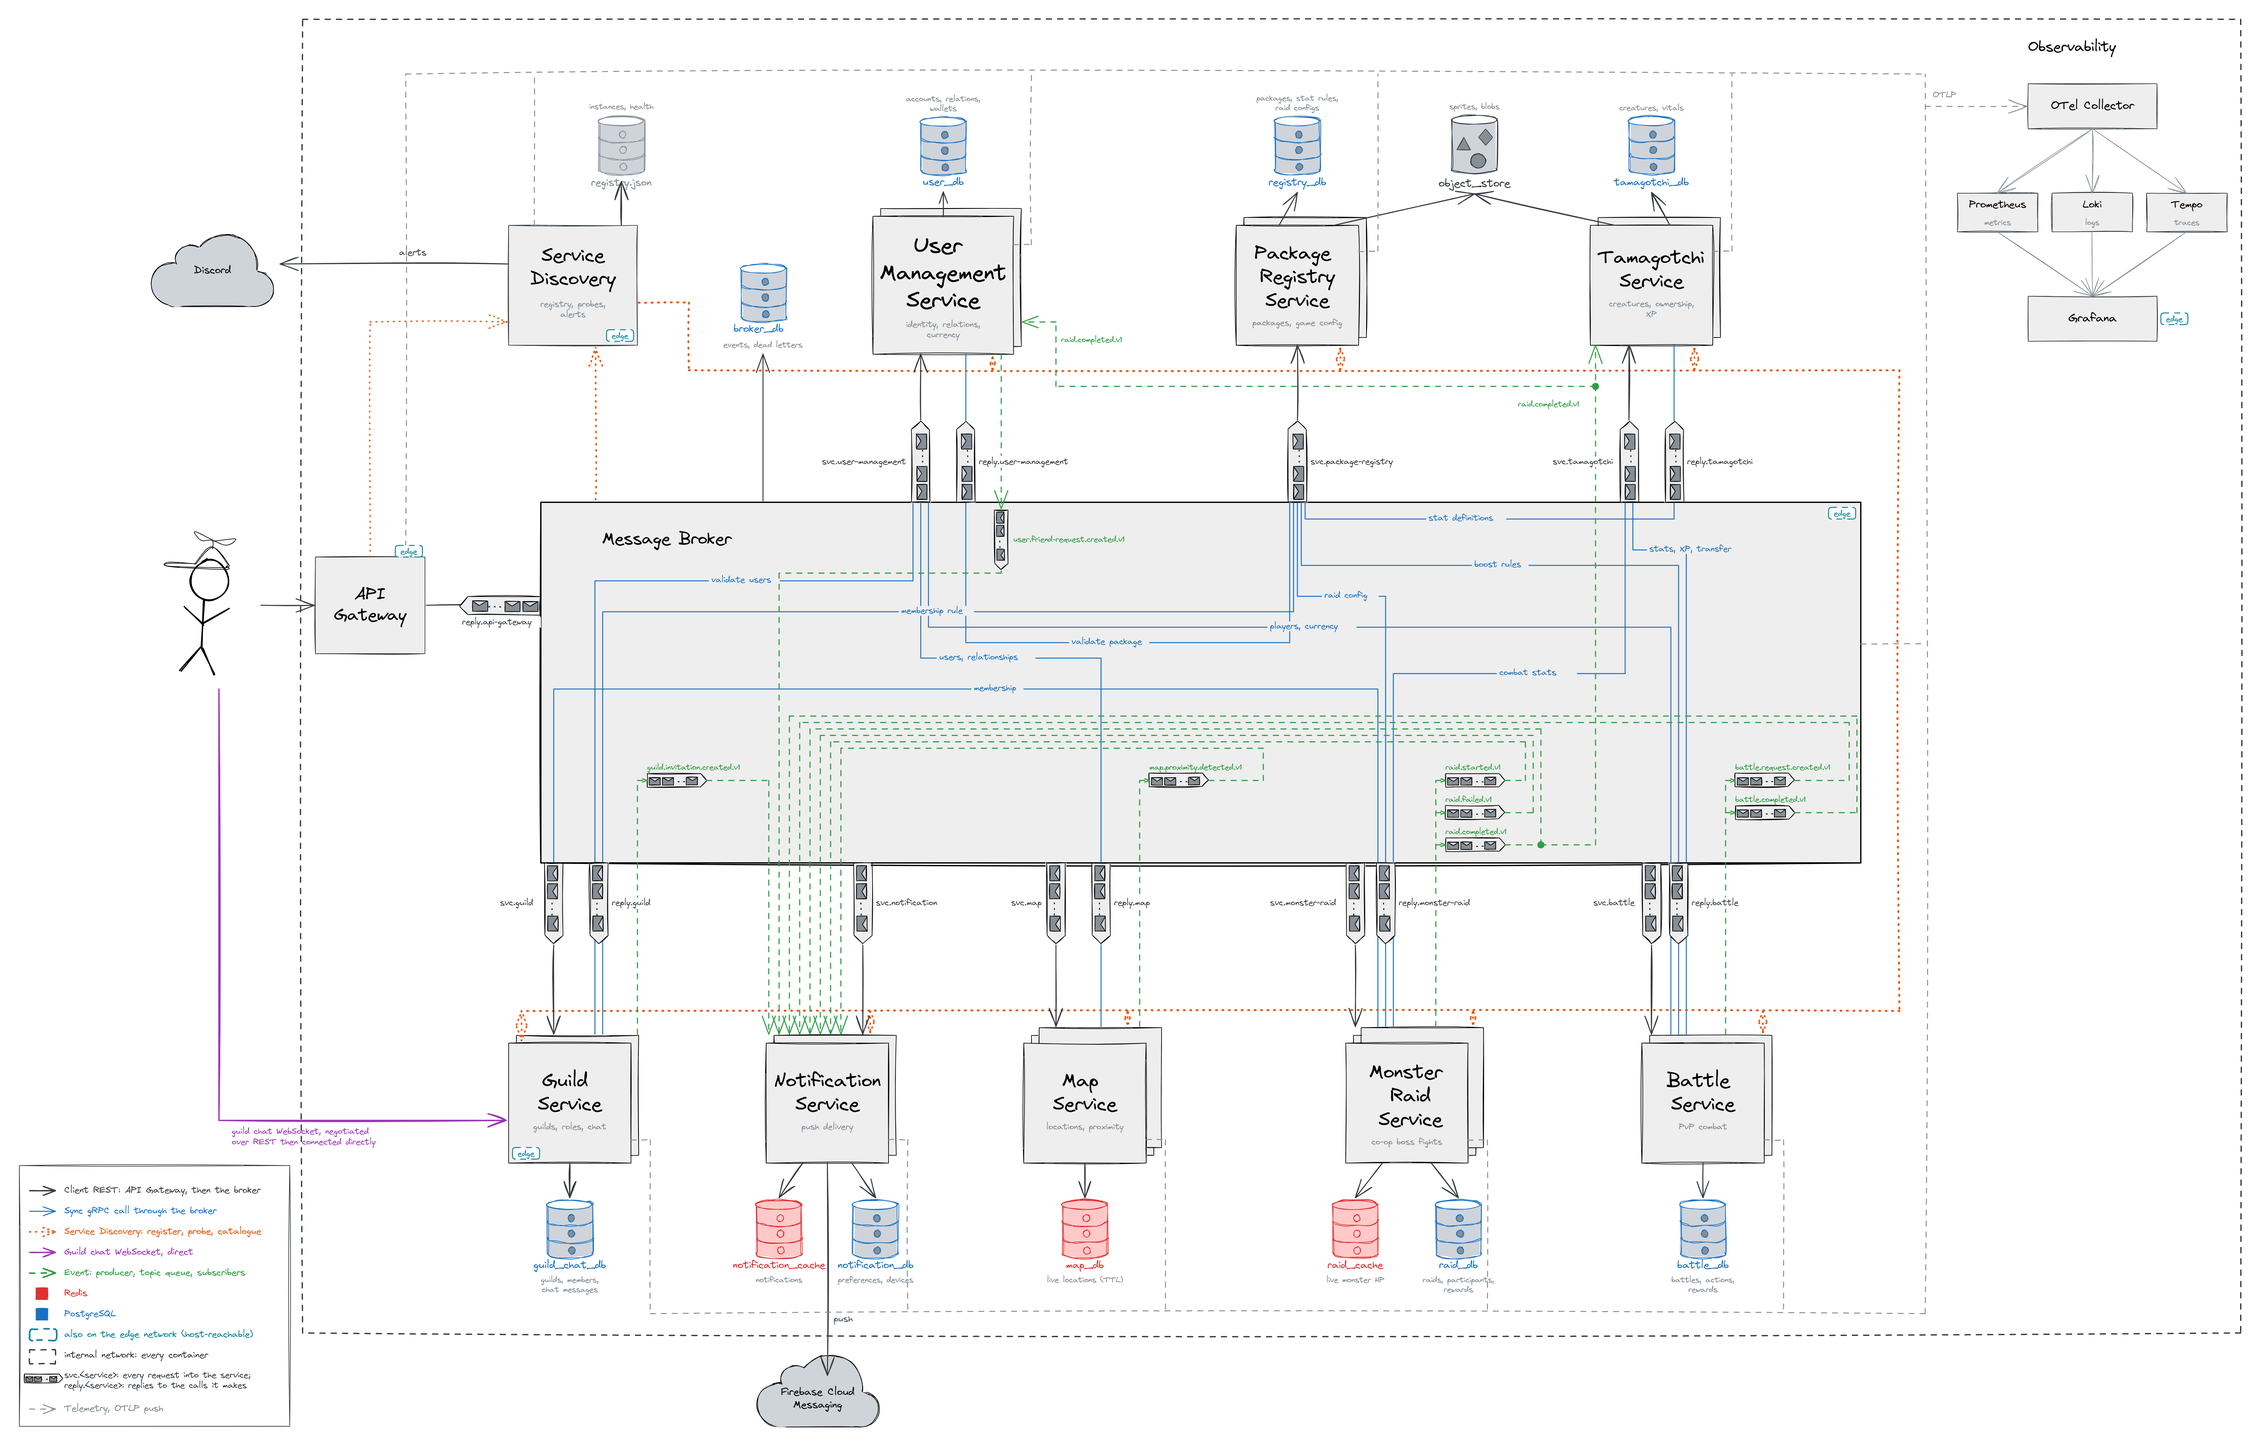
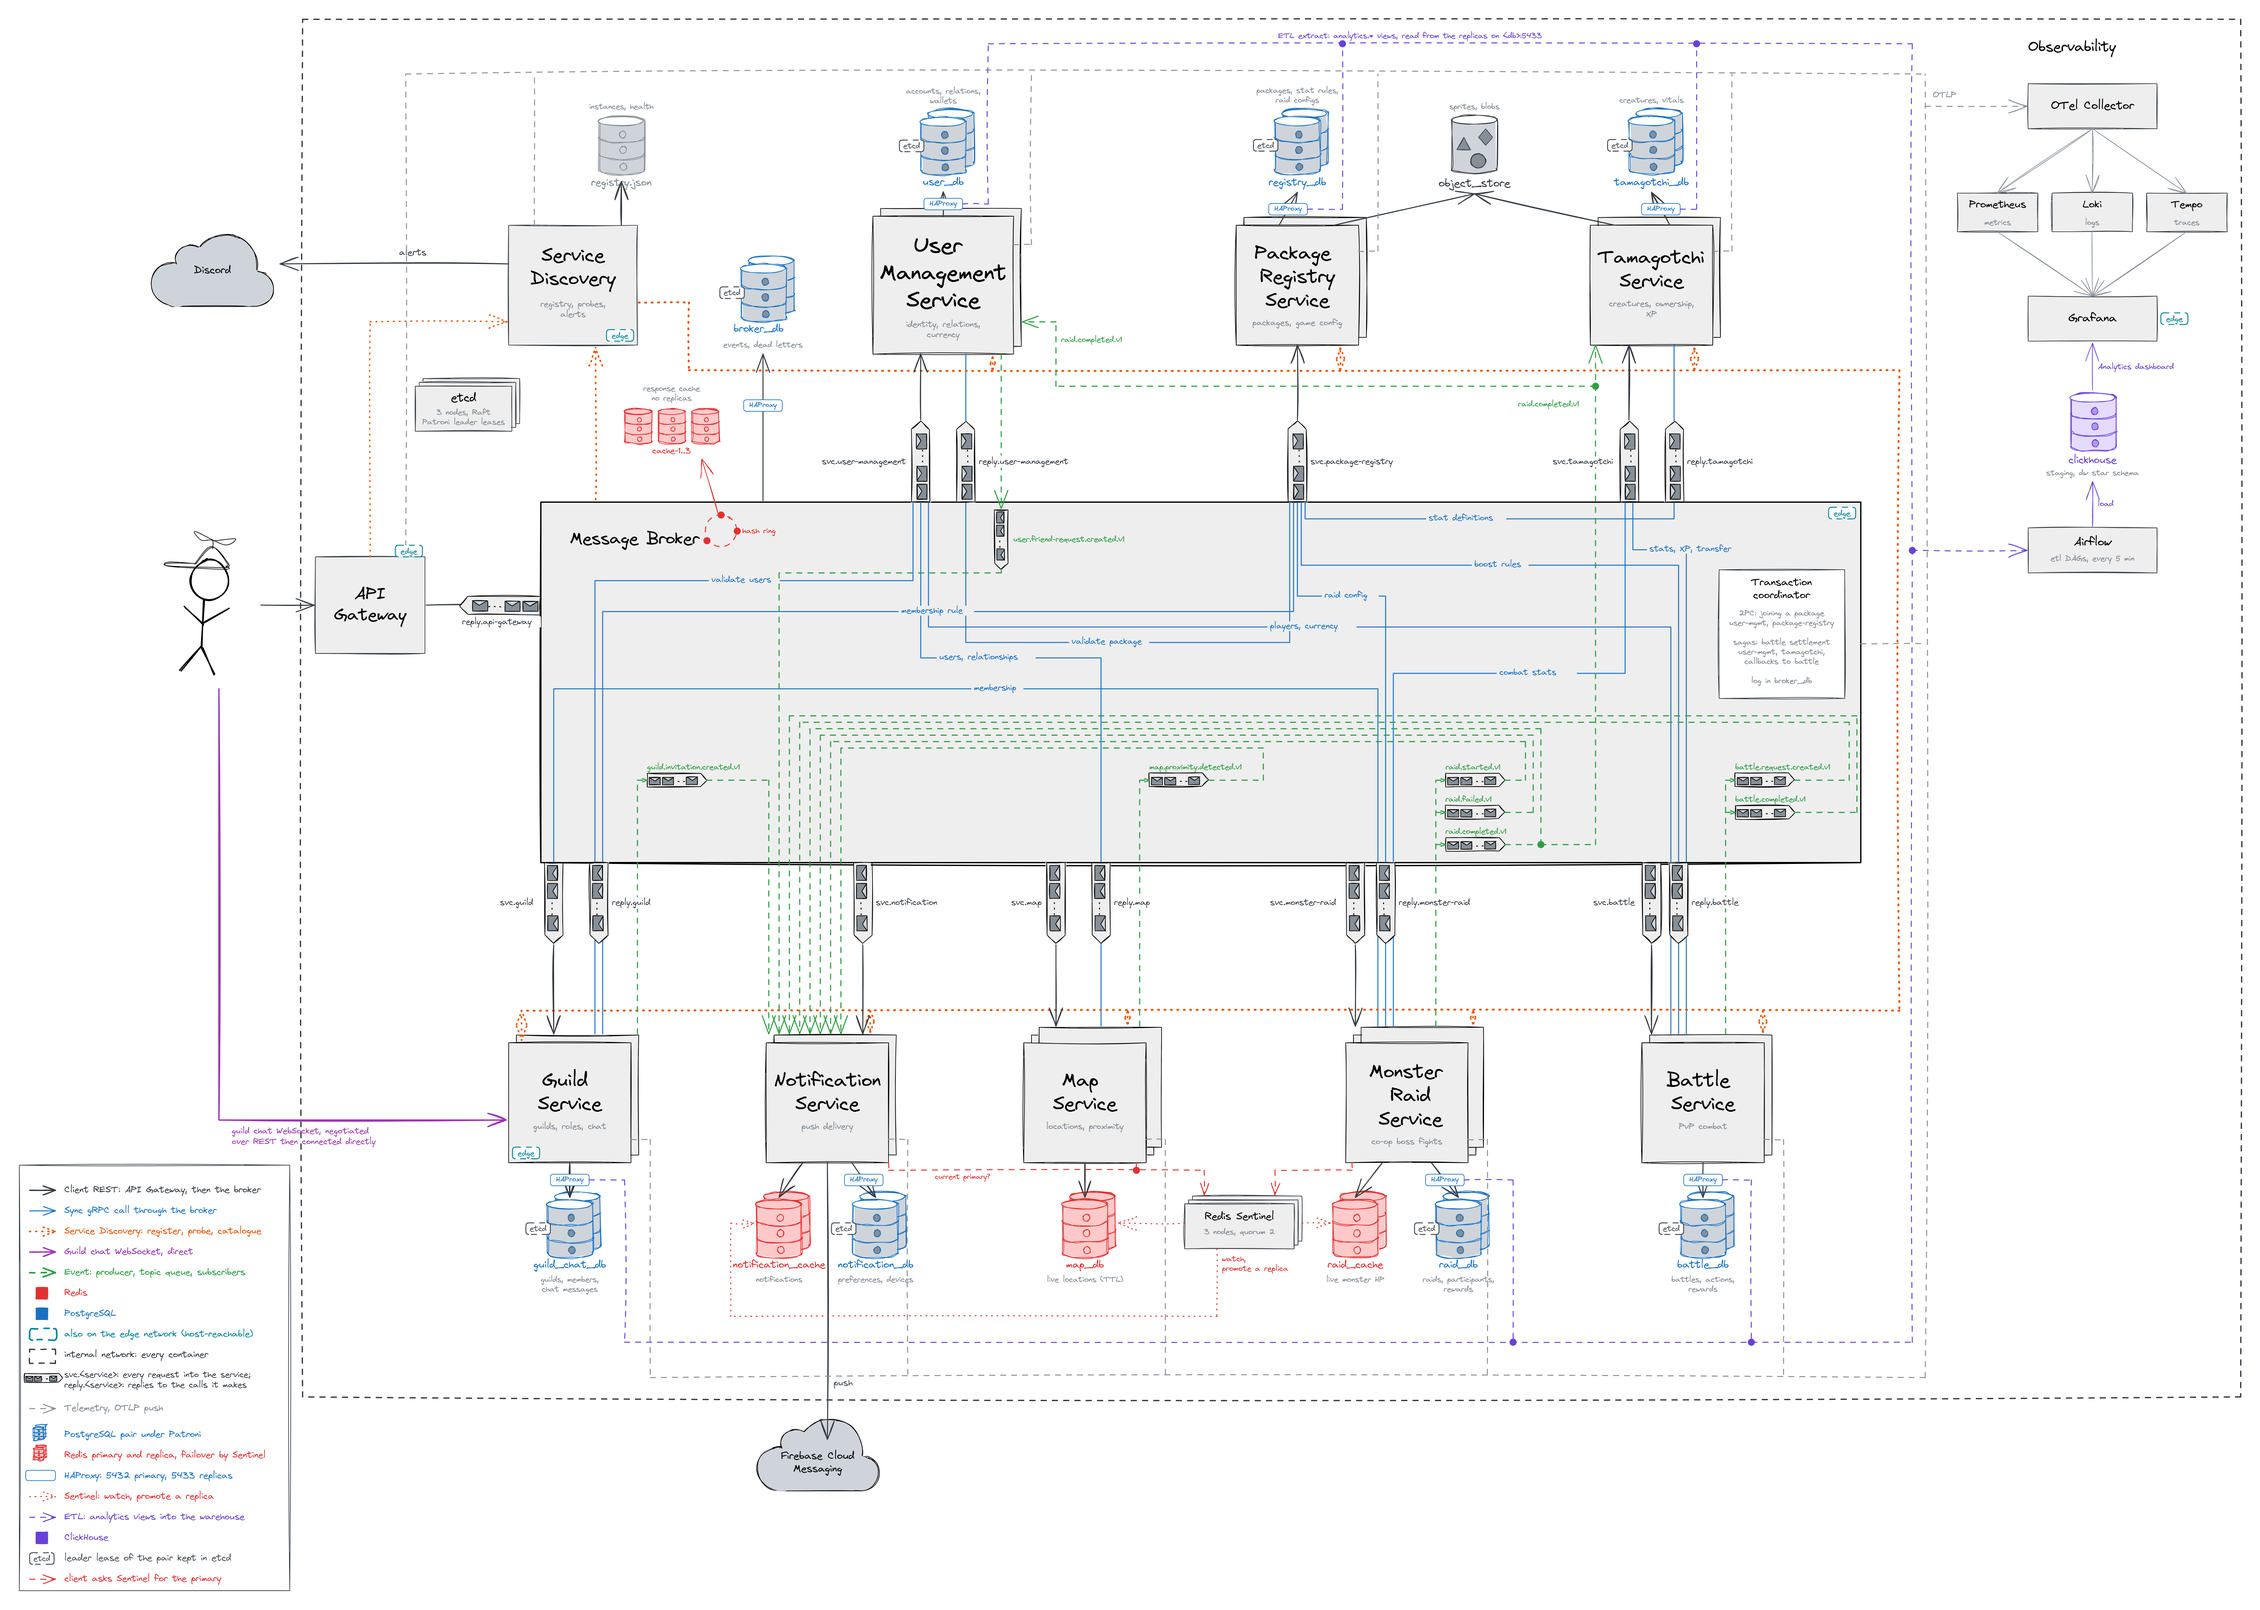
docs: draw the Lab 5 architecture

diff --git a/README.md b/README.md
@@ -118,7 +118,7 @@ Each service owns its datastore. Events are published to broker topics and persi
 
 ![Architecture Diagram](docs/architecture.png)
 
-The diagram shows the Lab 4 target. Object storage is tracked in #66. The remaining service rollout and end-to-end checks are tracked in #96, #97 and #102.
+The diagram shows the Lab 5 target: every PostgreSQL database as a Patroni pair behind its HAProxy, the Redis replicas with their Sentinels, the broker's response cache and transaction coordinator, and the analytics path from the replicas through Airflow and ClickHouse to Grafana. Replication, the Redis failover and the warehouse are being added to the deployment in #135, #136 and #137. Object storage is tracked in #66.
 
 [Back to top](#table-of-contents)
 
